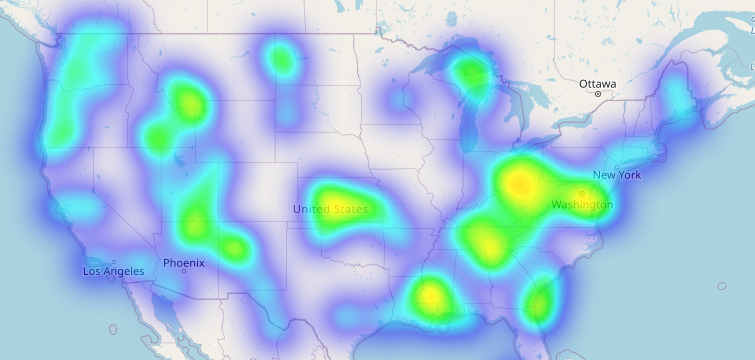
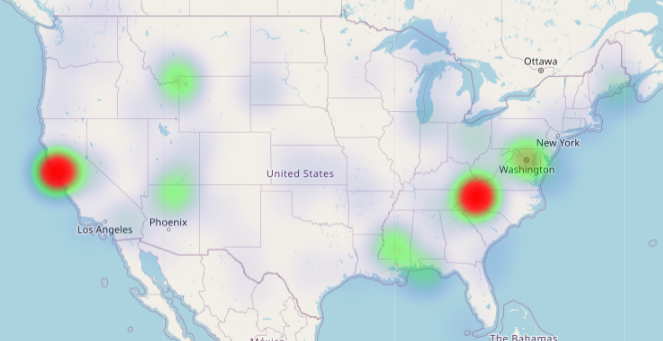
Readme file and fixed heatmap image

diff --git a/README.md b/README.md
@@ -1,1 +1,43 @@
-# NWBC-Project3-Group2
+# US National Parks Vacation Planner
+## NWBC-Project3-Group2
+
+For this project, the team decided to tackle the following question:  
+"Where do we go on our family vacation?"  
+![alt text](static/images/Homepage_Image.png)
+
+## Extract - Transformation - Load
+Data was extracted from two locations provided by the National Park Service:  
+* National Park Service API (https://developer.nps.gov/api/v1/)  
+* National Park Service Statistics (https://irma.nps.gov/STATS/Reports/National)  
+
+The identification of the national park sites was utilized using the "Places" API.  
+Pandas was utilized to extract the API data, then then loaded into PostgreSQL to utilize in the visualizations.
+
+The National Park Service Statistics site was used to collect recreation attendance data for 2021.  
+This data was saved as a CSV file, and converted to a JSON to utilize during the anaylsis and visualization.
+
+## Flask App
+Flask App was utilized as the tool to navigate between pages.  
+The initial page is index.html.  From there, flask app routes are executed when the user clicks on the appropriate link on the page.
+
+## Visualizations
+### National Park Service Location Map
+The user can view a map of the United States and see all of the national park locations, shown as markers on the map.  
+When the user selects a marker, a popup will show with following information:
+* Park name
+* Link to the NPS website for that park
+* State the park is located
+* Park designation
+* Image of the park provided by the NPS API.  
+
+### Park Annual Attendance
+The user will be able to see which parks in the United States have the highest attendance.  
+The warmer colors in the map will show locations where attendance is higher.  
+
+### Attendance Plot by Month
+The user can view park attendance for 2021 by month to determine if the park is likely to be crowded during the time period they will be traveling.  
+The user can select from a drop down the park of interest, and the plot will update to reflect the selected park’s attendance by month for 2021.
+
+
+
+
